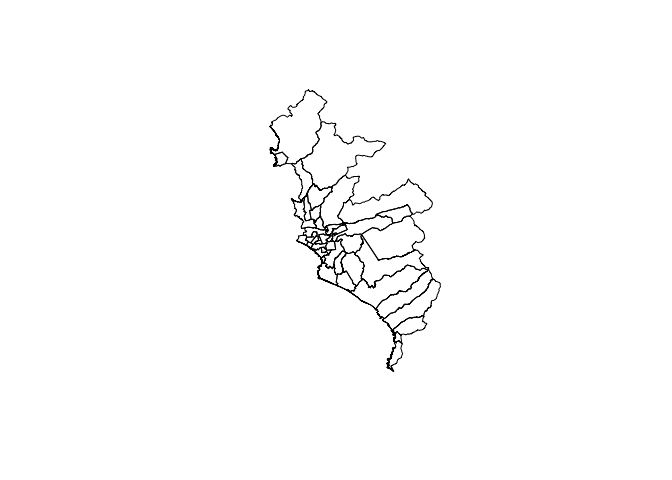
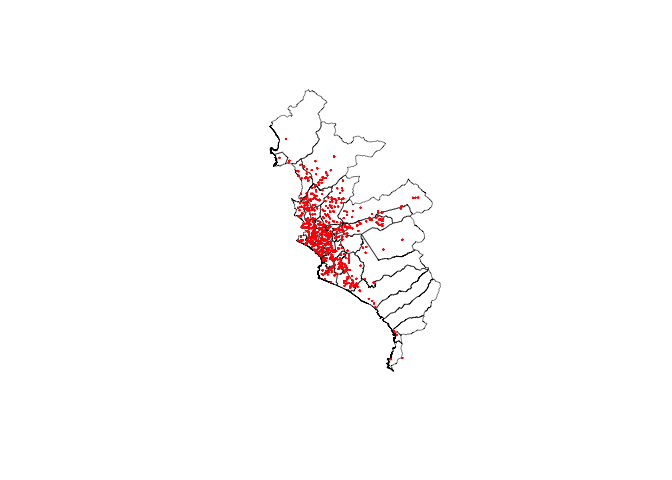
update 09/07

diff --git a/intro.md b/intro.md
@@ -1,4 +1,4 @@
-Very useful tools in R/Python for Geospatial Analysis
+Very useful tools in R for Geospatial Analysis
 ================
 
 In this document, I will explain some very useful and easy tools that I
@@ -13,7 +13,7 @@ a very short post, but I’m going to try to include great variety of
 tools at least for every basic analysis (e.g open spatial object, modify
 them, plot maps, polygons, points, etc.)
 
-## Level 0: Setup, open and inspect spatial object in R
+## Level 0: Setup, open and inspect spatial object
 
 Open shapefiles:
 
@@ -114,10 +114,11 @@ going to be useful later on) as follow:
   plot(enaho, add = TRUE, col='red', pch=1, cex = .1) # add points 
 ```
 
-![](intro_files/figure-gfm/unnamed-chunk-5-1.png)<!-- --> Of course
-these are not the most rad graphs, but they accomplish their main
-purpose inspect the element. I will do another post with more stylish
-figures ;)
+![](intro_files/figure-gfm/unnamed-chunk-5-1.png)<!-- -->
+
+Of course these are not the most rad graphs, but they accomplish their
+main purpose inspect the element. I will do another post with more
+stylish figures ;)
 
 ## Level 1: Basic operations
 
@@ -128,8 +129,85 @@ everything that we used to do on a regular datasets (subsetting, math
 operations, bysorts, conditionals, etc…)
 
 ``` r
-  mun <- mun[mun@data$NOMBPROV == 'LIMA',]
-  plot(mun)
+  # Subsample
+  mun <- mun[mun$NOMBPROV == 'LIMA',] # easily subsampling
+  
+  # Include example of dummy gen here and plot // --> to do
+  
+  # Manipulating variables
+  enaho$prov_id = substr(enaho$ubigeo,1,4) # creating an prov ID
+  enaho$household_id = paste0(enaho$ubigeo, enaho$conglome, enaho$vivienda, 
+                        enaho$hogar) # creating a household ID
+  
+  # We of course can quickly check what we did (in 10 random rows):
+  
+  sample_n(enaho@data[,c("ubigeo", "conglome", "vivienda", 
+                         "hogar", "prov_id", "household_id")], 10) 
+```
+
+    ##    ubigeo conglome vivienda hogar prov_id      household_id
+    ## 1  150111   017959      045    11    1501 15011101795904511
+    ## 2  150201   007996      139    11    1502 15020100799613911
+    ## 3  021003   009995      003    11    0210 02100300999500311
+    ## 4  150143   007948      049    11    1501 15014300794804911
+    ## 5  080906   010090      101    11    0809 08090601009010111
+    ## 6  090301   006475      069    11    0903 09030100647506911
+    ## 7  150504   008172      179    11    1505 15050400817217911
+    ## 8  180301   010711      089    11    1803 18030101071108911
+    ## 9  150105   007747      008    11    1501 15010500774700811
+    ## 10 050101   005694      060    11    0501 05010100569406011
+
+``` r
+  # Notice the use of @data in the previous command, sometimes, we need to 
+  # be more specific with R (but in most of the cases
+  # we can treat spatial dataframe just as a regular dataframe
+  
+  # Our household ID is unique of course 
+  print(length(enaho$household_id)) # Number of rows 
+```
+
+    ## [1] 53423
+
+``` r
+  print(length(unique(enaho$household_id))) # Number of unique rows 
+```
+
+    ## [1] 53423
+
+``` r
+  # We can check the number of municipalities and provinces too 
+  
+  print(length(unique(enaho$ubigeo)))
+```
+
+    ## [1] 1217
+
+``` r
+  print(length(unique(enaho$prov_id)))
+```
+
+    ## [1] 194
+
+``` r
+  # We are going to subsample our household database too, in order to match with 
+  # the mun database 
+  
+  enaho <- enaho[enaho$prov_id == '1501',] # LIMA province
+  
+  # And we can check our subsampling:
+  
+  plot(mun, lwd = .5) # And we can plot it 
+  plot(enaho, add = TRUE, col='red', pch=1, cex = .1) # add points
 ```
 
 ![](intro_files/figure-gfm/unnamed-chunk-6-1.png)<!-- -->
+
+And of course, as we can transform regular dataframes with lat/long to
+spatial objects, we are able to turnback them to regular dataframes
+(this can be useful in several cases, e.g when you would like to reduce
+estimation time). Moreover, we can perform other more ‘complicated’ data
+operations, like merge with other data information.
+
+## Level 2: Spatial operations - spatial merge, aggregations, grid generation, and more
+
+## Level 3: Elevation and raster objects
